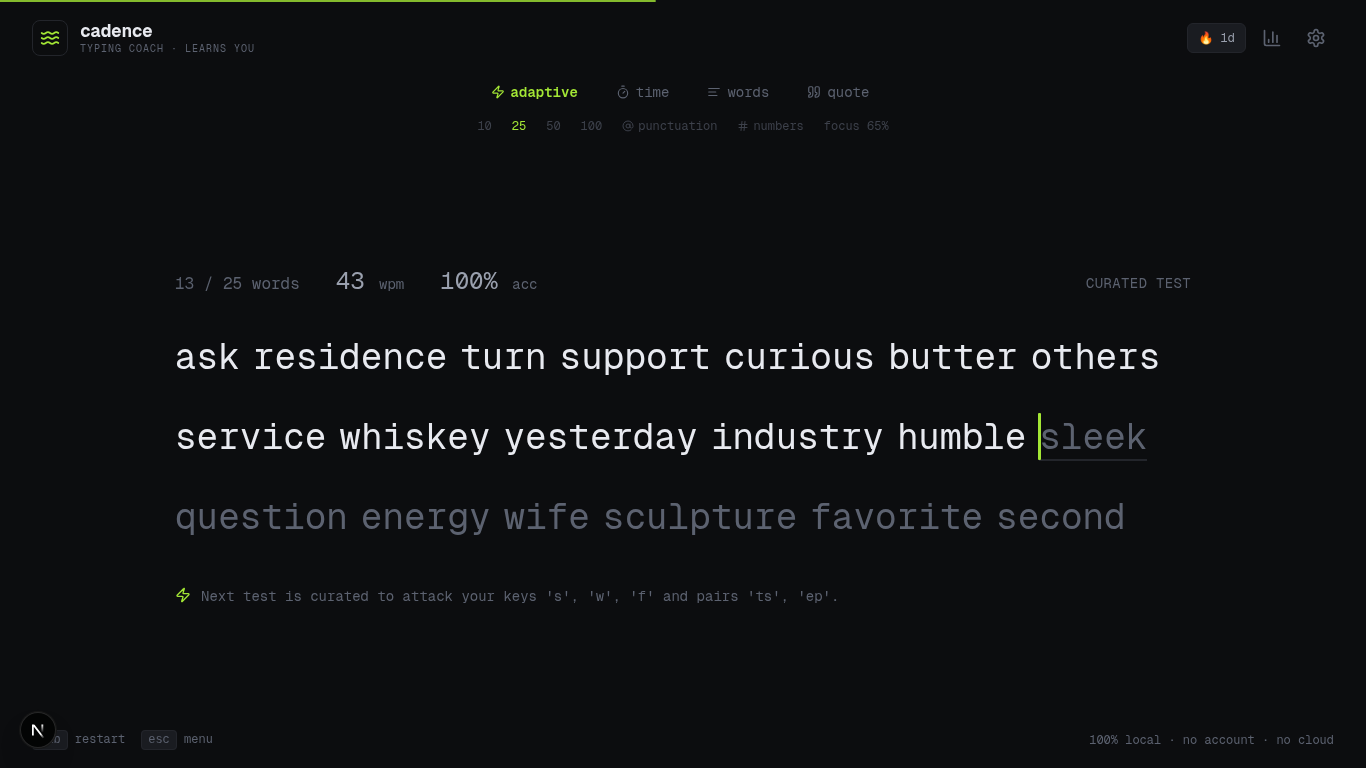
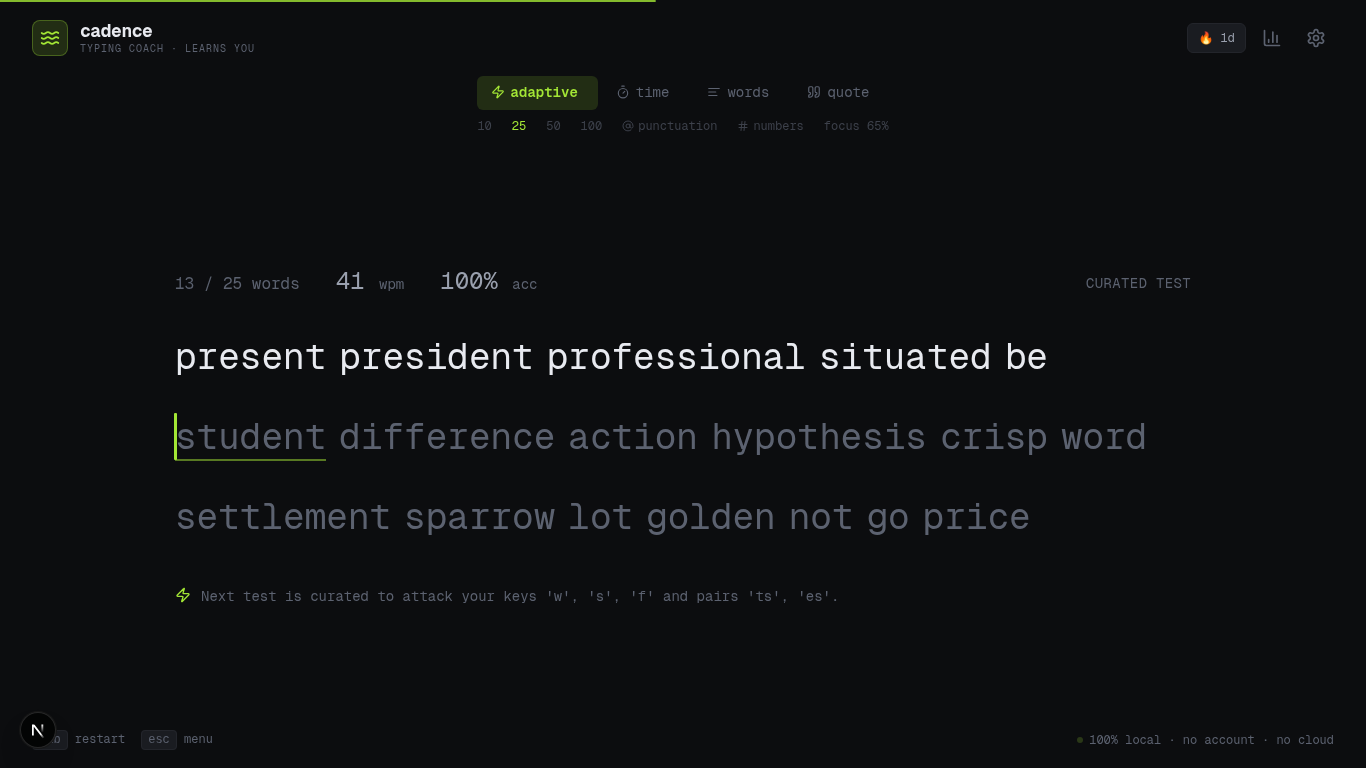
89890485-aefd-497c-8391-dd7bd0ef9e24

diff --git a/src/app/globals.css b/src/app/globals.css
@@ -41,6 +41,18 @@
   --radius-md: calc(var(--radius) - 2px);
   --radius-lg: var(--radius);
   --radius-xl: calc(var(--radius) + 4px);
+  /* Cadence tokens — registering them here makes ALL opacity modifiers work
+     (text-err/60, bg-hue/15, border-hue/30 …). Hand-written one-off classes
+     silently matched nothing for /N variants and fell back to inherited color. */
+  --color-hue: var(--hue);
+  --color-err: var(--error);
+  --color-warn: var(--warn);
+  --color-sub: var(--sub);
+  --color-dim: var(--dim);
+  --color-faint: var(--faint);
+  --color-surface: var(--surface);
+  --color-elevated: var(--elevated);
+  --color-missed: var(--missed);
 }
 
 /* Cadence dark palette — warm charcoal, phosphor-green accent */
@@ -89,6 +101,11 @@
   --faint: #3d414b;
   --surface: #131417;
   --elevated: #1a1c21;
+  /* skipped (space-pressed early) letters — muted mauve, reads as "blurred
+     past", never lights up like a wrong keystroke.
+     (≈ oklab mix of 35% --error + 65% --dim, kept as a literal so Tailwind
+     reliably type-checks it as a color and generates the utilities.) */
+  --missed: #93676f;
 }
 
 @layer base {
@@ -109,16 +126,8 @@
 }
 
 @layer utilities {
-  /* word stream tokens */
-  .text-hue { color: var(--hue); }
-  .bg-hue { background-color: var(--hue); }
-  .text-sub { color: var(--sub); }
-  .text-dim { color: var(--dim); }
-  .text-faint { color: var(--faint); }
-  .text-err { color: var(--error); }
-  .bg-surface { background-color: var(--surface); }
-  .bg-elevated { background-color: var(--elevated); }
-  .border-hue { border-color: var(--hue); }
+  /* Cadence color utilities (text-hue, bg-hue/15, text-err, border-hue/50 …)
+     are generated from the @theme inline tokens above. */
 }
 
 /* ---------- word stream ----------

diff --git a/src/components/typing/word-display.tsx b/src/components/typing/word-display.tsx
@@ -273,8 +273,9 @@ export function WordDisplay({
                 else if (typedChar === targetChar) cls = "text-foreground";
                 else cls = "text-err";
               } else if (targetChar !== null && wi < wordIndex) {
-                // missed char in a submitted word
-                cls = "text-err/50";
+                // skipped char (word submitted early) — muted, reads as
+                // blurred past rather than lighting up like a wrong key
+                cls = "text-missed";
               }
               chars.push(
                 <span key={ci} data-ci={ci} className={cls}>

diff --git a/worklog.md b/worklog.md
@@ -99,3 +99,20 @@ Work Log:
 Stage Summary:
 - Mid-test top-line reshuffle eliminated: between line crossings the stream layout is now byte-stable; window shrinks/grows only by whole lines at pixel-invisible moments.
 - Verified file: src/components/typing/word-display.tsx only. Regression harness updated (rewrap assertions) at scripts/e2e-scroll-fix.sh; crossing probe at scripts/probe-crossing.sh.
+
+---
+Task ID: 6
+Agent: Super Z (main agent)
+Task: User report — spacing past an unfinished word "lights up the whole letters of that word" instead of only marking/blurring the skipped letters.
+
+Work Log:
+- Reproduced + inspected computed styles: skipped letters rendered FULL WHITE (rgb(232,234,240)) — identical to correctly-typed letters.
+- Root cause (app-wide, not just word display): Cadence colors were hand-written utilities in globals.css (@layer utilities: .text-hue/.text-err/.text-dim/…) and NOT registered in Tailwind's @theme. Every opacity-modified variant (text-err/50, text-err/60, border-hue/50, bg-hue/15, border-hue/30, bg-hue/10, bg-hue/20) matched NO CSS — silently inheriting body white or default border color. Broken call sites: word-display (missed chars, extra chars, active-word underline), page.tsx (logo box, active mode button, progress dot), results.tsx (PB badge), settings-modal.tsx (active option).
+- Fix in globals.css: registered all Cadence tokens in @theme inline (--color-hue/err/warn/sub/dim/faint/surface/elevated/missed → var(--…)); deleted the hand-written one-off utilities; Tailwind now generates the full utility set with working opacity modifiers (verified: active underline = lime/50, mode button bg = lime/15, mode border = lime/30).
+- New "missed" treatment per user intent: --missed token = muted mauve #93676f (≈ 35% error + 65% dim). Skipped letters use text-missed — clearly dimmer than typed white, subtly red-tinted so the skip is still visible, never "lit up". NOTE: the token value must be a literal hex — a color-mix() value inside @theme inline stops Tailwind from generating the utility (type-check fails silently).
+- extra chars stay text-err/60 (now actually renders 60% red instead of inheriting white); wrong keystrokes unchanged (text-err full red).
+- Verified: computed colors (typed=white, skipped=rgb(147,103,111), wrong=rgb(248,113,113)); screenshot shows dimmed skipped word + lime active underline + tinted mode button; full e2e re-run PASS (0 backward scrolls, 0 rewraps, 0 caret mispositions); tsc + eslint clean.
+
+Stage Summary:
+- All Cadence opacity-modified utilities now real (theme-registered tokens); skipped-letter feedback is a muted mauve "blur" instead of accidentally full-white.
+- Files: src/app/globals.css (theme registration), src/components/typing/word-display.tsx (text-missed). Visual side effect: several UI elements regain their intended lime tint (mode button, PB badge, active underline, settings options).
